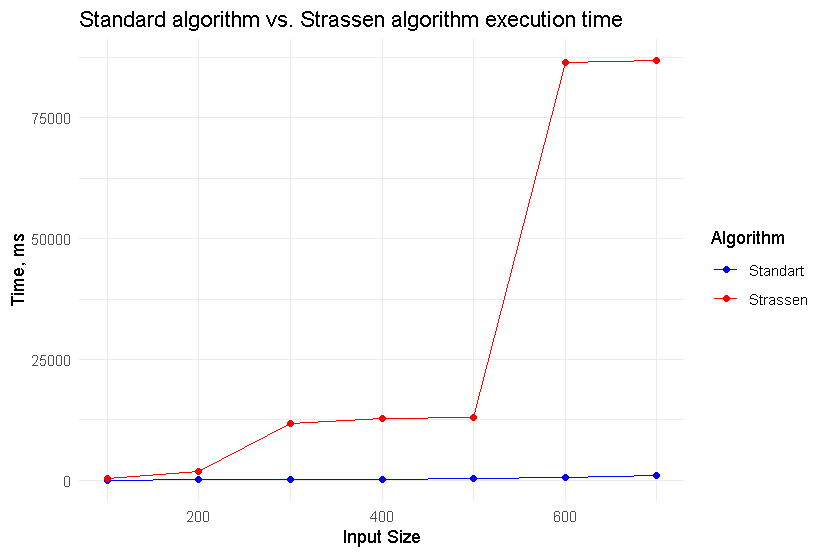
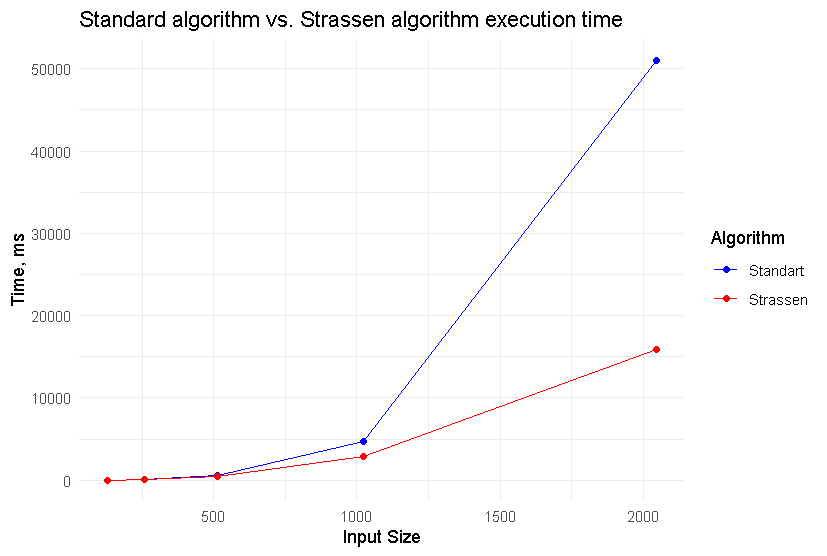
Final commit

diff --git a/auxiliary.h b/auxiliary.h
@@ -2,6 +2,9 @@
 #include <iostream>	
 #include <ctime>
 #include <chrono>
+#include <fstream>
+#include <string>
+#include <thread>
 
 using std::cout;
 using std::endl;
@@ -10,6 +13,9 @@ using std::time;
 using std::srand;
 using std::cin;
 using namespace std::chrono;
+using std::ofstream;
+using std::string;
+using std::ifstream;
 
 int** createMatrix(int n) {
 	int** newMatrix = new int* [n];
@@ -19,7 +25,7 @@ int** createMatrix(int n) {
 	return newMatrix;
 }
 void randomize(int**& A, int n) {
-	srand(time(NULL));
+	//srand(time(NULL));
 
 	A = new int* [n];
 	for (unsigned int i = 0; i < n; i++) {
@@ -46,6 +52,49 @@ void remove(int**& A, int n) {
 		delete[] A[i];
 	}
 	delete[] A;
+}
+
+void saveToFile(int** matrix, int n, const string& filename) {
+	ofstream outputFile(filename);
+
+	if (outputFile.is_open()) {
+
+		for (int i = 0; i < n; ++i) {
+			for (int j = 0; j < n; ++j) {
+				outputFile << matrix[i][j] << " ";
+			}
+			outputFile << endl;
+		}
+		outputFile.close();
+		cout << "Saved to file... " << filename << endl;
+	}
+	else {
+		cout << "Error. " << endl;
+	}
+}
+
+int** readFromFile(const string& filename, int& n) {
+	ifstream inputFile(filename); 
+
+	if (inputFile.is_open()) {
+		inputFile >> n; 
+		int** matrix = new int* [n]; 
+
+		for (int i = 0; i < n; ++i) {
+			matrix[i] = new int[n];
+			for (int j = 0; j < n; ++j) {
+				inputFile >> matrix[i][j];
+			}
+		}
+
+		inputFile.close(); 
+		cout << "Reading success... " << filename << endl;
+		return matrix;
+	}
+	else {
+		cout << "Error." << endl;
+		return nullptr;
+	}
 }
 
 //matrix operations
@@ -85,3 +134,4 @@ int** multiply(int** A, int** B, int n) {
 		}
 	return C;
 }
+

diff --git a/Source.cpp b/Source.cpp
@@ -1,5 +1,6 @@
 #include "strassen.h"
 #include <cassert>
+#include "auxiliary.h"
 
 void runTest() {
     {
@@ -77,12 +78,25 @@ int main() {
     int n;
     cout << "Enter the size of the matrix: " << endl;
     cin >> n;
+
     int** A = createMatrix(n);
     int** B = createMatrix(n);
     int** C = createMatrix(n);
 
+    /*string fileA = "A.txt";
+    randomize(A, n);
+    saveToFile(A, n, fileA);
+    
+    string fileB = "B.txt";
+    randomize(B, n);
+    saveToFile(B, n, fileB);*/
+
+    /*int** A = readFromFile("A.txt", n);
+    int** B = readFromFile("B.txt", n);*/
+
     randomize(A, n);
     randomize(B, n);
+
 
     /*cout << "Matrix A: " << endl;
     print(A, n);
@@ -94,18 +108,17 @@ int main() {
     C = multiply(A, B, n);
     auto stop = high_resolution_clock::now();
     auto duration_standard = duration_cast<milliseconds>(stop - start);
-
     /*cout << "Matrix C by Std:" << endl;
     print(C, n);*/
 
     cout << "Time taken by Standard algorithm: " << duration_standard.count() << " milliseconds" << endl;
 
-    start = high_resolution_clock::now();
+    auto start1 = high_resolution_clock::now();
     C = strassen(A, B, n);
-    stop = high_resolution_clock::now();
-    auto duration_strassen = duration_cast<milliseconds>(stop - start);
-    /* cout << "Matrix C by Strassen:" << endl;
-     print(C, n);*/
+    auto stop1 = high_resolution_clock::now();
+    auto duration_strassen = duration_cast<milliseconds>(stop1 - start1);
+    /*cout << "Matrix C by Strassen:" << endl;
+    print(C, n);*/
 
     cout << "Time taken by Strassen algorithm: " << duration_strassen.count() << " milliseconds" << endl;
 

diff --git a/strassen.h b/strassen.h
@@ -2,7 +2,7 @@
 #include "auxiliary.h"
 
 int** strassen(int** A, int** B, int n) {
-	if (n == 1) {
+	if (n <= 128) {
 		return multiply(A, B, n);
 	}
 
